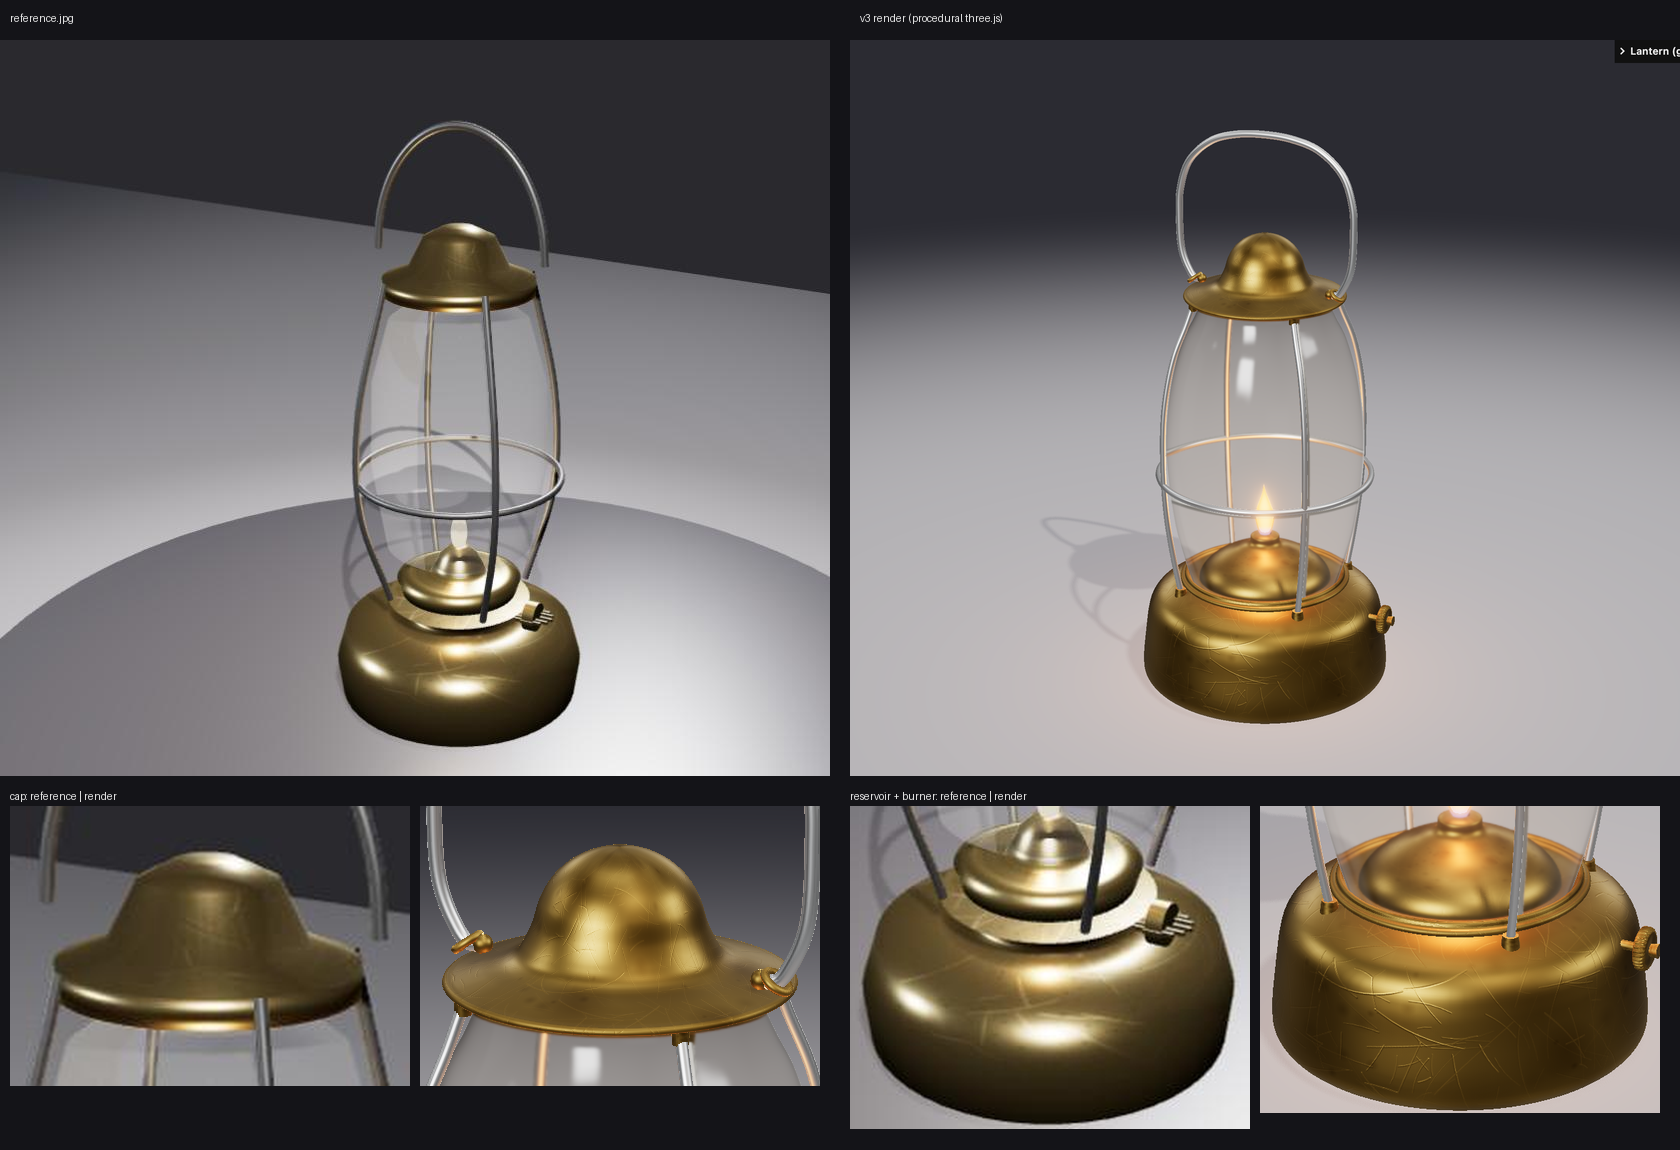
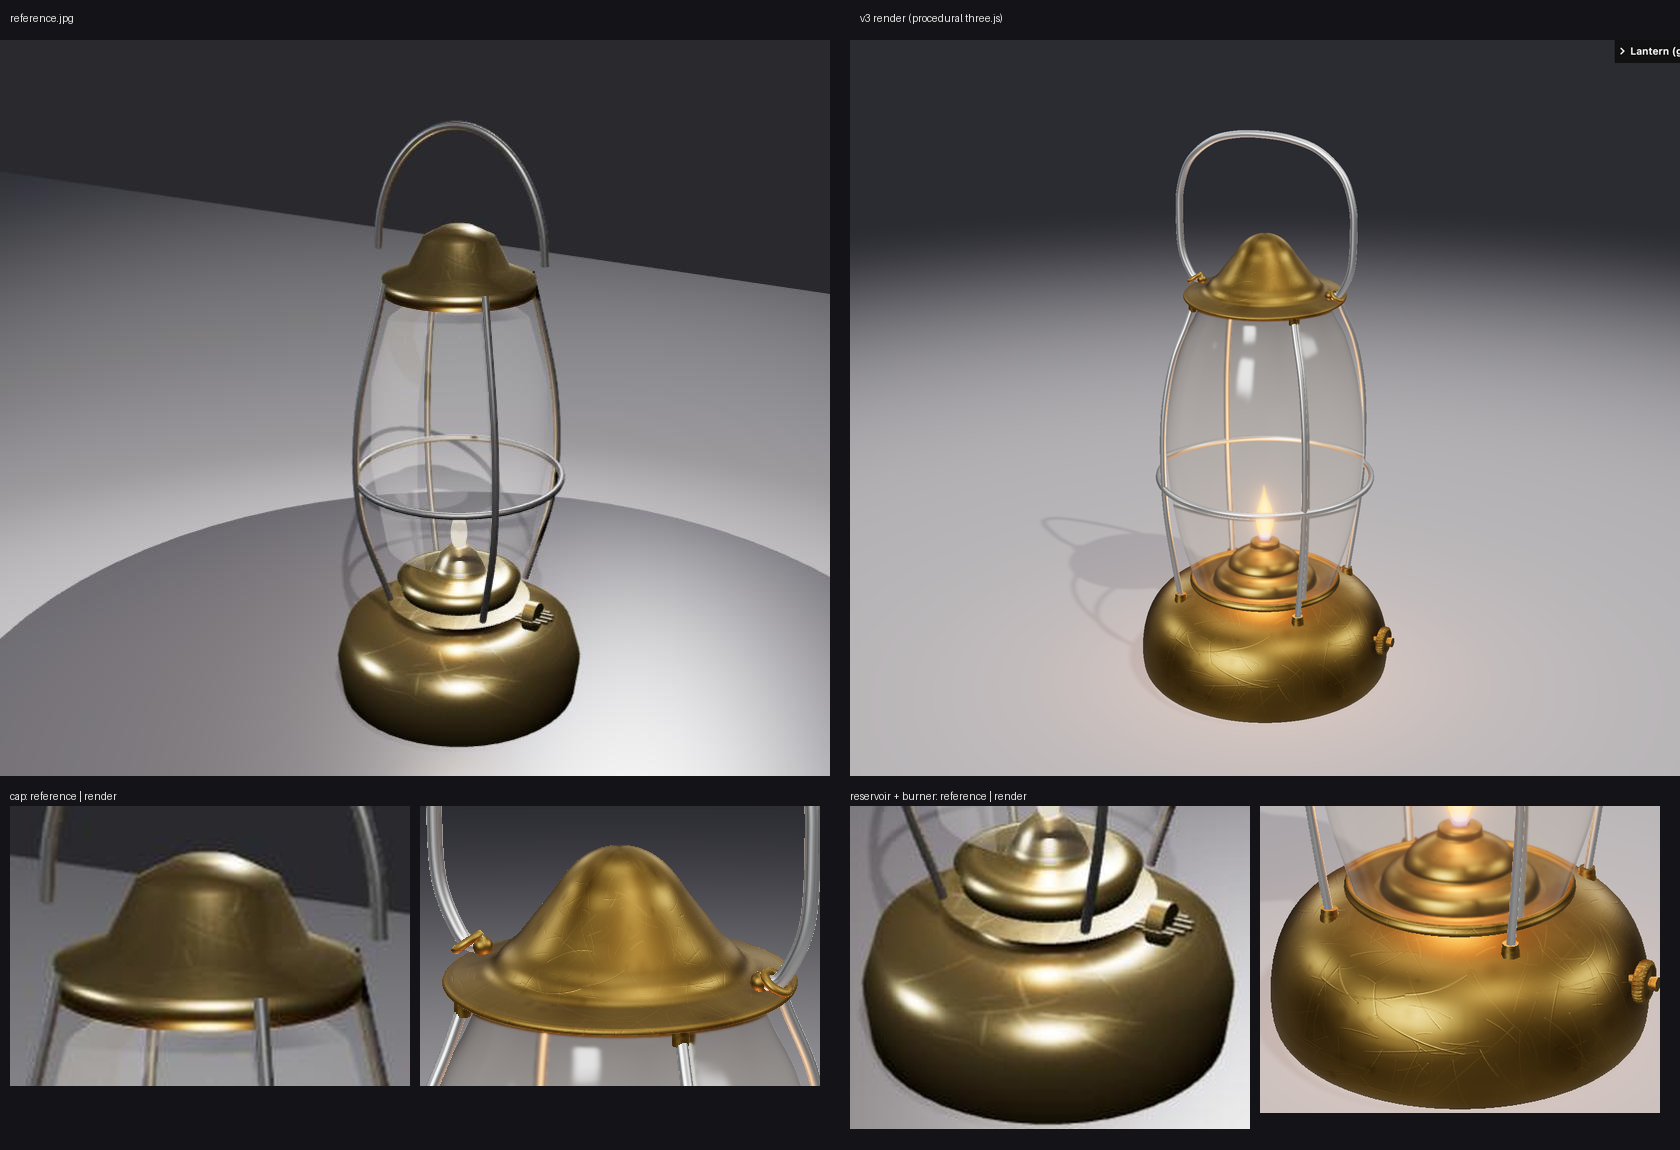
feat(v3): wider dome, pillowed reservoir, tiered burner
- Cap dome: base dia 0.085, near-straight conical sides with a slightly
  concave foot, round crown (r ~0.02), same +0.044 m above the brim line;
  brim slope lowered to 13 deg so the cap is no taller.
- Reservoir: ~32 mm shoulder into a pillowed top, slightly convex wall
  (+3 mm at mid height), bottom dia 0.18 unchanged; wheel and ferrules
  moved onto the new surface.
- Burner: plate dia 0.11 x 3 mm (2 cm overhang), tiered bell 0.07 -> 0.05
  over 12 mm then a small dome to a dia 0.02 neck (27 mm); glass foot
  narrowed to sit on the plate lip; wick and flame follow the neck.
- Size ratios vs reference unchanged (all within +4.1 %).

diff --git a/src/lantern/profiles.ts b/src/lantern/profiles.ts
@@ -13,12 +13,12 @@ function smooth(points: [number, number][], samples = 64): Vector2[] {
   return curve.getSpacedPoints(samples).map((p) => new Vector2(Math.max(p.x, 0), p.y));
 }
 
-/** Cap brim: a thin cone rising ~17 deg from the rim (r 0.057) to the dome base (r 0.034). */
+/** Cap brim: a thin cone rising ~13 deg from the rim (r 0.057) to the dome base (r 0.0425). */
 export const BRIM = {
   rimR: 0.0568,
   rimTop: 0.2952,
-  domeR: 0.034,
-  slope: Math.tan((17 * Math.PI) / 180),
+  domeR: 0.0425,
+  slope: Math.tan((13 * Math.PI) / 180),
   /** Height of the brim's top surface at radius r. */
   topAt(r: number): number {
     return this.rimTop + (this.rimR - Math.min(Math.max(r, this.domeR), this.rimR)) * this.slope;
@@ -32,10 +32,10 @@ export const BRIM = {
 /** Key heights shared by several parts. */
 export const DIM = {
   reservoirTop: 0.081, // dome centre
-  plateTop: 0.0815,
-  wickTop: 0.1165,
-  glassBottom: 0.0815,
-  glassTop: 0.296,
+  plateTop: 0.0782,
+  wickTop: 0.1126,
+  glassBottom: 0.0782,
+  glassTop: 0.2958,
   /** Visual centre line of the brim rim (used for proportion checks). */
   brimLine: 0.2945,
   domeTop: 0.3385,
@@ -45,7 +45,7 @@ export const DIM = {
 const wireCurve = new CatmullRomCurve3(
   (
     [
-      [0.0645, 0.0735], // buried in the reservoir top (ferrule)
+      [0.0645, 0.068], // buried in the reservoir top (ferrule)
       [0.0705, 0.105],
       [0.0752, 0.14],
       [0.077, 0.18],
@@ -77,73 +77,78 @@ export const WIRE = {
 export const RING_Y = DIM.glassBottom + 0.37 * (DIM.glassTop - DIM.glassBottom);
 
 /**
- * Reservoir: wall tapers from dia 0.18 at the bottom to ~0.168 at the top, bottom edge rounded ~12 mm,
- * top edge rounded ~20 mm into a soft dome whose centre sits ~9 mm above the edge.
+ * Reservoir "pillow": dia 0.18 at the bottom, bottom edge ~12 mm, slightly convex wall, a large ~32 mm
+ * shoulder and a soft domed top (centre ~9 mm above the shoulder).
  */
 export const reservoirProfile = smooth(
   [
     [0, 0],
-    [0.075, 0],
-    [0.0842, 0.0022],
-    [0.0892, 0.0075],
-    [0.09, 0.014],
-    [0.0878, 0.038],
-    [0.0858, 0.053],
-    [0.0836, 0.0612],
-    [0.0792, 0.0675],
-    [0.0728, 0.0718],
-    [0.064, 0.0754],
-    [0.045, 0.0786],
-    [0.022, 0.0805],
+    [0.074, 0],
+    [0.0835, 0.0025],
+    [0.0885, 0.008],
+    [0.0903, 0.016],
+    [0.0905, 0.026], // wall bulges ~3 mm past a straight taper
+    [0.0895, 0.036],
+    [0.0868, 0.0465], // ~32 mm shoulder into the pillowed top
+    [0.0822, 0.056],
+    [0.0758, 0.0635],
+    [0.0675, 0.0694],
+    [0.057, 0.0737],
+    [0.042, 0.0773],
+    [0.022, 0.0801],
     [0, 0.081],
   ],
-  140,
+  160,
 );
 
-/** Flat plate (dia 0.124, 3 mm) with a crisp edge and a low rim that seats the glass. */
+/** Flat plate (dia 0.11, 3 mm) resting on the reservoir dome, with a low lip that seats the glass. */
 export const galleryProfile = smooth(
   [
-    [0, 0.0785],
-    [0.059, 0.0785],
-    [0.0616, 0.0788],
-    [0.062, 0.0802],
-    [0.0612, 0.0815],
-    [0.0586, 0.0815],
-    [0.0585, 0.0838],
-    [0.0573, 0.0845],
-    [0.0559, 0.0839],
-    [0.0556, 0.0817],
-    [0.045, 0.0815],
-    [0, 0.0815],
+    [0, DIM.plateTop - 0.003],
+    [0.053, DIM.plateTop - 0.003],
+    [0.0546, DIM.plateTop - 0.0027],
+    [0.055, DIM.plateTop - 0.0013],
+    [0.0546, DIM.plateTop],
+    [0.0541, DIM.plateTop],
+    [0.0541, DIM.plateTop + 0.0019],
+    [0.0532, DIM.plateTop + 0.0025],
+    [0.0522, DIM.plateTop + 0.002],
+    [0.052, DIM.plateTop + 0.0002],
+    [0.045, DIM.plateTop],
+    [0, DIM.plateTop],
   ],
   96,
 );
 
-/** Burner bell: dia 0.088 at the base, rounding in over ~27 mm to a short neck (dia 0.02) under the wick. */
+/** Tiered burner: lower tier dia 0.07 -> 0.05 over 12 mm, then a small dome to a dia 0.02 neck (27 mm total). */
+const P = DIM.plateTop;
 export const burnerProfile = smooth(
   [
-    [0.0441, DIM.plateTop - 0.0003],
-    [0.0438, 0.0845],
-    [0.0418, 0.0888],
-    [0.0368, 0.0943],
-    [0.029, 0.0995],
-    [0.019, 0.104],
-    [0.0122, 0.107],
-    [0.0102, 0.1095], // neck
-    [0.0098, 0.1135],
-    [0.0078, 0.1146],
-    [0.005, 0.115],
-    [0, 0.115],
+    [0.0351, P - 0.0003],
+    [0.0349, P + 0.003],
+    [0.0332, P + 0.0075],
+    [0.0292, P + 0.0105],
+    [0.026, P + 0.0118], // shelf between the tiers
+    [0.0249, P + 0.0126],
+    [0.0246, P + 0.015],
+    [0.022, P + 0.0195],
+    [0.0165, P + 0.0235],
+    [0.0117, P + 0.026],
+    [0.0102, P + 0.027], // neck
+    [0.0098, P + 0.031],
+    [0.0078, P + 0.0321],
+    [0.005, P + 0.0324],
+    [0, P + 0.0324],
   ],
-  96,
+  110,
 );
 
 /** Barrel chimney, open at both ends; the neck slips into the thin collar under the cap. */
 export const glassProfile = smooth(
   [
-    [0.0545, DIM.glassBottom],
-    [0.058, 0.093],
-    [0.0655, 0.123],
+    [0.051, DIM.glassBottom],
+    [0.0545, 0.089],
+    [0.0632, 0.118],
     [0.071, 0.17],
     [0.0705, 0.2],
     [0.0655, 0.235],
@@ -163,9 +168,9 @@ export const glassProfile = smooth(
 const C = BRIM;
 export const capProfile = smooth(
   [
-    [0, 0.2972],
-    [0.0445, 0.2972],
-    [0.0461, 0.2962],
+    [0, 0.2963],
+    [0.0445, 0.2963],
+    [0.0461, 0.2958],
     [0.0462, 0.2912],
     [0.0469, 0.2904], // collar lip, ~5.5 mm below the glass rim
     [0.0477, 0.2912],
@@ -176,15 +181,16 @@ export const capProfile = smooth(
     [0.0572, C.rimTop - 0.0014], // thin rounded rim
     [C.rimR, C.rimTop],
     [0.054, C.topAt(0.054)],
-    [0.045, C.topAt(0.045)],
-    [0.037, C.topAt(0.037)],
-    [0.0335, C.topAt(0.034) + 0.0012], // concave foot of the bell
-    [0.031, C.topAt(0.034) + 0.005],
-    [0.0283, 0.313],
-    [0.0258, 0.321],
-    [0.0218, 0.328],
-    [0.0155, 0.3337],
-    [0.0075, 0.3373],
+    [0.047, C.topAt(0.047)],
+    [0.0435, C.topAt(0.0435)],
+    [0.0412, C.topAt(C.domeR) + 0.0012], // slightly concave foot
+    [0.0385, C.topAt(C.domeR) + 0.0048],
+    [0.034, 0.3073], // near-straight conical side
+    [0.028, 0.315],
+    [0.022, 0.3228],
+    [0.0172, 0.3297], // round crown, r ~0.02
+    [0.0118, 0.3348],
+    [0.0058, 0.3376],
     [0, DIM.domeTop],
   ],
   220,

diff --git a/src/lantern/geometry.ts b/src/lantern/geometry.ts
@@ -109,7 +109,7 @@ export function buildLantern(materials: LanternMaterials): LanternParts {
   wickMesh.position.y = DIM.wickTop - 0.002;
   root.add(wickMesh);
 
-  // Thumb wheel on a short spindle out of the reservoir wall, upper third of its height
+  // Thumb wheel on a short spindle out of the reservoir wall, just under the shoulder
   const wheelGroup = new Group();
   const spindle = shadowed(
     new Mesh(new CylinderGeometry(0.0022, 0.0022, 0.018, 16), brass),
@@ -123,7 +123,7 @@ export function buildLantern(materials: LanternMaterials): LanternParts {
   knob.rotation.z = Math.PI / 2;
   knob.position.x = 0.099;
   wheelGroup.add(spindle, wheel, knob);
-  wheelGroup.position.y = 0.062;
+  wheelGroup.position.y = 0.045;
   // Points along +X, midway between two frame wires: right of the default camera,
   // on the side opposite the shadow, as in the reference photo.
   wheelGroup.rotation.y = 0;
@@ -134,7 +134,7 @@ export function buildLantern(materials: LanternMaterials): LanternParts {
     const angle = Math.PI / 4 + (i * Math.PI) / 2;
     root.add(shadowed(new Mesh(frameWire(angle), steel)));
     // Brass ferrule where the wire enters the reservoir
-    const fy = 0.0765; // on the domed top at the wire's radius
+    const fy = 0.0725; // on the pillowed top at the wire's radius
     const r = WIRE.radiusAt(fy);
     const ferrule = shadowed(new Mesh(new CylinderGeometry(0.0038, 0.0046, 0.006, 20), brass));
     ferrule.position.set(Math.cos(angle) * r, fy, Math.sin(angle) * r);

diff --git a/src/lantern/flame.ts b/src/lantern/flame.ts
@@ -105,12 +105,12 @@ export function createFlame(): Flame {
   const mesh = new Mesh(new SphereGeometry(1, 48, 32), material);
   // Unit sphere scaled into an elongated drop (meters)
   mesh.scale.set(0.0072, 0.021, 0.0072);
-  mesh.position.y = 0.133;
+  mesh.position.y = 0.129;
   mesh.layers.enable(BLOOM_LAYER);
   group.add(mesh);
 
   const light = new PointLight('#ffa040', params.lightIntensity, 2, 2);
-  light.position.y = 0.14;
+  light.position.y = 0.136;
   light.castShadow = false;
   group.add(light);
 
